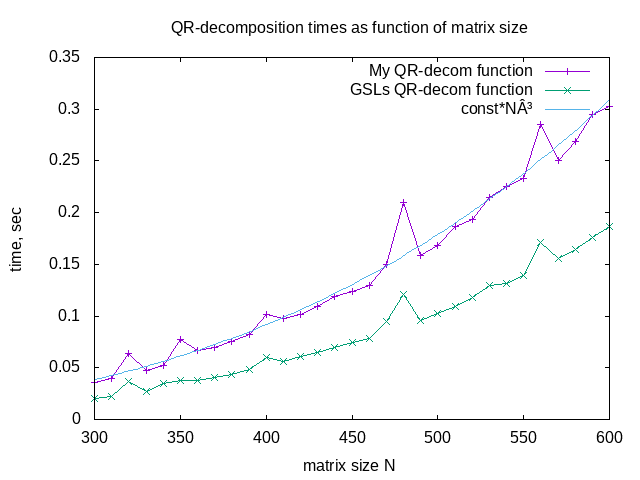
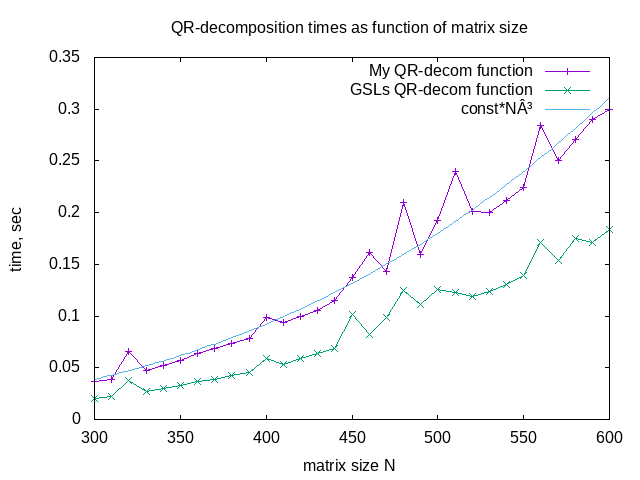
added some stuff

diff --git a/homework/2_linear_eq/main.c b/homework/2_linear_eq/main.c
@@ -80,7 +80,7 @@ printm(R_new);
 printf("which also is the identity matrix. So it seems like our inverse-function works.\n");
 printf("\n");
 printf("Task C:\n");
-printf("In the out.times.png the processing time to QR-factorize a NxN matrix is plotted as a function of N. This is done for both my own implementation and GSLs implementation. We would expect my own implementation to go like O(N^3), since in my QR_decom function is calculates a dot product and a linear combination of two columns. Each of these operations contributes with O(n). So I have fitted a y=a*x^3 curve to the data of my own implementation and it looks like it actually evolves like N^3, expect for some weird 'bumps' at specfic N-values.");
+printf("In the out.times.png the processing time to QR-factorize a NxN matrix is plotted as a function of N. This is done for both my own implementation and GSLs implementation. We would expect my own implementation to go like O(N^3), since in my QR_decom function is calculates a dot product and a linear combination of two columns. Each of these operations contributes with O(n). So I have fitted a y=a*x^3 curve to the data of my own implementation and it looks like it actually evolves like N^3, expect for some weird 'bumps' at specfic N-values, which might is because of my own computer acting a bit strange when it comes to CPU in my virtualbox. We also see in the plot that GSLs implementation is overall faster than mine.");
 gsl_matrix_free(A);
 gsl_matrix_free(Q_trans_Q);
 gsl_matrix_free(R);

diff --git a/homework/2_linear_eq/functions.h b/homework/2_linear_eq/functions.h
@@ -1,5 +1,4 @@
 void printm(gsl_matrix *A);
-void vector_print(char s[],gsl_vector* v);
 void QR_dec(gsl_matrix* A, gsl_matrix* R);
 void QR_backsub(gsl_matrix *R, gsl_vector *x);
 void QR_solve(gsl_matrix *Q, gsl_matrix *R, gsl_vector *b, gsl_vector *x);
